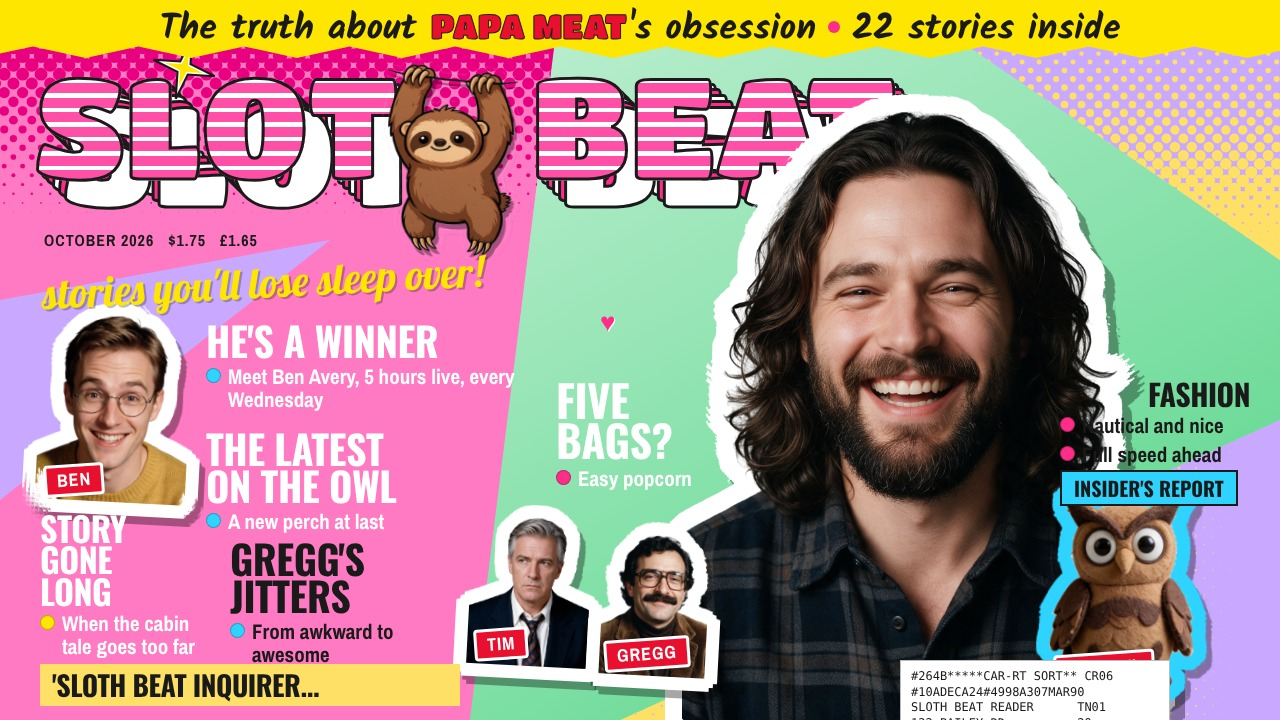
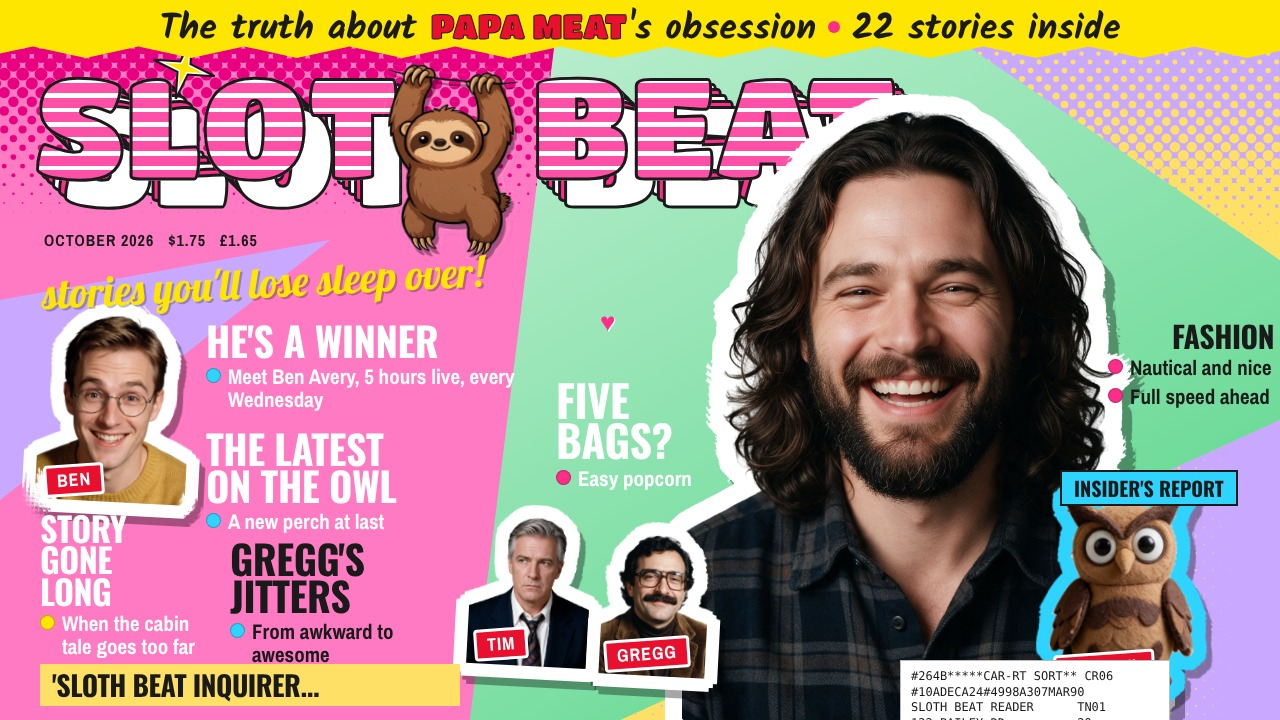
Sloth Beat v7: last coverline off the hair
Claude-Session: https://claude.ai/code/session_019p8SwDYgnY8vbcMXRQhZJi

Changed region(s): [[0.8125, 0.4278, 1.0, 0.6417]]

diff --git a/mockups/sloth_beat/01_papa_meat_v7.html b/mockups/sloth_beat/01_papa_meat_v7.html
@@ -5,5 +5,5 @@
 <div class="topstrip">The truth about <b>PAPA MEAT</b>'s obsession<i></i>22 stories inside</div>
 <div class="mast"><span class="layer l0">SLOT<span class="h">H</span> BEAT</span><span class="layer l1">SLOT<span class="h">H</span> BEAT</span><span class="layer l2">SLOT<span class="h">H</span> BEAT</span><span class="layer l3">SLOT<span class="h">H</span> BEAT</span><span class="layer l4">SLOT<span class="h">H</span> BEAT</span><span class="layer front">SLOT<span class="h">H</span> BEAT</span><svg class="glint" viewBox="0 0 60 60"><path d="M30 0 L35 25 L60 30 L35 35 L30 60 L25 35 L0 30 L25 25 Z" fill="#fff" stroke="#1a1a1a" stroke-width="2"/><path d="M30 12 L33 27 L48 30 L33 33 L30 48 L27 33 L12 30 L27 27 Z" fill="#ffe600"/></svg></div><img class="sloth" src="sloth_sticker.png">
 <div class="dateline">OCTOBER 2026 &nbsp; $1.75 &nbsp; &pound;1.65</div>
-<img class="mainphoto" src="photo_a.png" style="left:640px;top:110px;width:560px;height:610px;z-index:5"><div class="script" style="left:42px;top:262px;color:#ffe600;font-size:42px;transform:rotate(-3deg);z-index:8">stories you'll lose sleep over!</div><img class="sticker" src="photo_b.png" style="left:40px;top:290px;width:150px;height:212px;z-index:6;transform:rotate(3deg);filter:drop-shadow(5px 0px 0 #fff) drop-shadow(-5px 0px 0 #fff) drop-shadow(0px 5px 0 #fff) drop-shadow(0px -5px 0 #fff) drop-shadow(4px 4px 0 #fff) drop-shadow(-4px 4px 0 #fff) drop-shadow(4px -4px 0 #fff) drop-shadow(-4px -4px 0 #fff) drop-shadow(6px 8px 0 rgba(0,0,0,.35))"><div class="nametag" style="left:44px;top:464px;z-index:7">BEN</div><div class="cl" style="left:206px;top:322px;width:330px;z-index:8;text-align:left;"><div class="head" style="color:#fff;font-size:40px">HE'S A WINNER</div><div class="sub" style="color:#fff"><i style="background:#2fd3ff"></i>Meet Ben Avery, 5 hours live, every Wednesday</div></div><div class="cl" style="left:206px;top:430px;width:330px;z-index:8;text-align:left;"><div class="head" style="color:#fff;font-size:40px">THE LATEST<br>ON THE OWL</div><div class="sub" style="color:#fff"><i style="background:#2fd3ff"></i>A new perch at last</div></div><div class="cl" style="left:40px;top:512px;width:180px;z-index:8;text-align:left;"><div class="head" style="color:#fff;font-size:34px">STORY<br>GONE<br>LONG</div><div class="sub" style="color:#fff"><i style="background:#ffe600"></i>When the cabin tale goes too far</div></div><div class="cl" style="left:230px;top:540px;width:230px;z-index:8;text-align:left;"><div class="head" style="color:#1a1a1a;font-size:40px">GREGG'S<br>JITTERS</div><div class="sub" style="color:#1a1a1a"><i style="background:#2fd3ff"></i>From awkward to awesome</div></div><div class="cl" style="left:556px;top:380px;width:140px;z-index:8;text-align:left;"><div class="head" style="color:#fff;font-size:44px">FIVE<br>BAGS?</div><div class="sub" style="color:#fff"><i style="background:#ff2d8a"></i>Easy popcorn</div></div><div class="cl" style="left:40px;top:664px;width:420px;z-index:8;text-align:left;background:#ffe066;padding:8px 12px;"><div class="head" style="color:#1a1a1a;font-size:28px">'SLOTH BEAT INQUIRER...</div></div><img class="sticker" src="photo_c.png" style="left:470px;top:513px;width:120px;height:153px;z-index:6;transform:rotate(3deg);filter:drop-shadow(5px 0px 0 #fff) drop-shadow(-5px 0px 0 #fff) drop-shadow(0px 5px 0 #fff) drop-shadow(0px -5px 0 #fff) drop-shadow(4px 4px 0 #fff) drop-shadow(-4px 4px 0 #fff) drop-shadow(4px -4px 0 #fff) drop-shadow(-4px -4px 0 #fff) drop-shadow(6px 8px 0 rgba(0,0,0,.35))"><div class="nametag" style="left:474px;top:628px;z-index:7">TIM</div><img class="sticker" src="photo_d.png" style="left:600px;top:535px;width:110px;height:141px;z-index:6;transform:rotate(3deg);filter:drop-shadow(5px 0px 0 #fff) drop-shadow(-5px 0px 0 #fff) drop-shadow(0px 5px 0 #fff) drop-shadow(0px -5px 0 #fff) drop-shadow(4px 4px 0 #fff) drop-shadow(-4px 4px 0 #fff) drop-shadow(4px -4px 0 #fff) drop-shadow(-4px -4px 0 #fff) drop-shadow(6px 8px 0 rgba(0,0,0,.35))"><div class="nametag" style="left:604px;top:638px;z-index:7">GREGG</div><img class="sticker" src="photo_owl.png" style="left:1050px;top:490px;width:150px;height:200px;z-index:9;transform:rotate(3deg);filter:drop-shadow(5px 0px 0 #2fd3ff) drop-shadow(-5px 0px 0 #2fd3ff) drop-shadow(0px 5px 0 #2fd3ff) drop-shadow(0px -5px 0 #2fd3ff) drop-shadow(4px 4px 0 #2fd3ff) drop-shadow(-4px 4px 0 #2fd3ff) drop-shadow(4px -4px 0 #2fd3ff) drop-shadow(-4px -4px 0 #2fd3ff) drop-shadow(6px 8px 0 rgba(0,0,0,.35))"><div class="nametag" style="left:1054px;top:652px;z-index:10">THE OWL</div><div class="cl" style="left:1060px;top:380px;width:190px;z-index:9;text-align:right;"><div class="head" style="color:#1a1a1a;font-size:30px">FASHION</div><div class="sub" style="color:#1a1a1a"><i style="background:#ff2d8a"></i>Nautical and nice</div><div class="sub" style="color:#1a1a1a"><i style="background:#ff2d8a"></i>Full speed ahead</div></div><div class="tab" style="left:1060px;top:470px">insider's report</div><div class="mail" style="left:900px;top:660px">#264B*****CAR-RT SORT** CR06<br>#10ADECA24#4998A307MAR90<br>SLOTH BEAT READER &nbsp;&nbsp;&nbsp;&nbsp; TN01<br>132 BAILEY RD &nbsp;&nbsp;&nbsp;&nbsp;&nbsp;&nbsp;&nbsp;&nbsp; 29<br>ROCKY HILL &nbsp;&nbsp;&nbsp;&nbsp;&nbsp; CT 06067</div><div class="heartdot" style="left:600px;top:300px">&#9829;</div>
+<img class="mainphoto" src="photo_a.png" style="left:640px;top:110px;width:560px;height:610px;z-index:5"><div class="script" style="left:42px;top:262px;color:#ffe600;font-size:42px;transform:rotate(-3deg);z-index:8">stories you'll lose sleep over!</div><img class="sticker" src="photo_b.png" style="left:40px;top:290px;width:150px;height:212px;z-index:6;transform:rotate(3deg);filter:drop-shadow(5px 0px 0 #fff) drop-shadow(-5px 0px 0 #fff) drop-shadow(0px 5px 0 #fff) drop-shadow(0px -5px 0 #fff) drop-shadow(4px 4px 0 #fff) drop-shadow(-4px 4px 0 #fff) drop-shadow(4px -4px 0 #fff) drop-shadow(-4px -4px 0 #fff) drop-shadow(6px 8px 0 rgba(0,0,0,.35))"><div class="nametag" style="left:44px;top:464px;z-index:7">BEN</div><div class="cl" style="left:206px;top:322px;width:330px;z-index:8;text-align:left;"><div class="head" style="color:#fff;font-size:40px">HE'S A WINNER</div><div class="sub" style="color:#fff"><i style="background:#2fd3ff"></i>Meet Ben Avery, 5 hours live, every Wednesday</div></div><div class="cl" style="left:206px;top:430px;width:330px;z-index:8;text-align:left;"><div class="head" style="color:#fff;font-size:40px">THE LATEST<br>ON THE OWL</div><div class="sub" style="color:#fff"><i style="background:#2fd3ff"></i>A new perch at last</div></div><div class="cl" style="left:40px;top:512px;width:180px;z-index:8;text-align:left;"><div class="head" style="color:#fff;font-size:34px">STORY<br>GONE<br>LONG</div><div class="sub" style="color:#fff"><i style="background:#ffe600"></i>When the cabin tale goes too far</div></div><div class="cl" style="left:230px;top:540px;width:230px;z-index:8;text-align:left;"><div class="head" style="color:#1a1a1a;font-size:40px">GREGG'S<br>JITTERS</div><div class="sub" style="color:#1a1a1a"><i style="background:#2fd3ff"></i>From awkward to awesome</div></div><div class="cl" style="left:556px;top:380px;width:140px;z-index:8;text-align:left;"><div class="head" style="color:#fff;font-size:44px">FIVE<br>BAGS?</div><div class="sub" style="color:#fff"><i style="background:#ff2d8a"></i>Easy popcorn</div></div><div class="cl" style="left:40px;top:664px;width:420px;z-index:8;text-align:left;background:#ffe066;padding:8px 12px;"><div class="head" style="color:#1a1a1a;font-size:28px">'SLOTH BEAT INQUIRER...</div></div><img class="sticker" src="photo_c.png" style="left:470px;top:513px;width:120px;height:153px;z-index:6;transform:rotate(3deg);filter:drop-shadow(5px 0px 0 #fff) drop-shadow(-5px 0px 0 #fff) drop-shadow(0px 5px 0 #fff) drop-shadow(0px -5px 0 #fff) drop-shadow(4px 4px 0 #fff) drop-shadow(-4px 4px 0 #fff) drop-shadow(4px -4px 0 #fff) drop-shadow(-4px -4px 0 #fff) drop-shadow(6px 8px 0 rgba(0,0,0,.35))"><div class="nametag" style="left:474px;top:628px;z-index:7">TIM</div><img class="sticker" src="photo_d.png" style="left:600px;top:535px;width:110px;height:141px;z-index:6;transform:rotate(3deg);filter:drop-shadow(5px 0px 0 #fff) drop-shadow(-5px 0px 0 #fff) drop-shadow(0px 5px 0 #fff) drop-shadow(0px -5px 0 #fff) drop-shadow(4px 4px 0 #fff) drop-shadow(-4px 4px 0 #fff) drop-shadow(4px -4px 0 #fff) drop-shadow(-4px -4px 0 #fff) drop-shadow(6px 8px 0 rgba(0,0,0,.35))"><div class="nametag" style="left:604px;top:638px;z-index:7">GREGG</div><img class="sticker" src="photo_owl.png" style="left:1050px;top:490px;width:150px;height:200px;z-index:9;transform:rotate(3deg);filter:drop-shadow(5px 0px 0 #2fd3ff) drop-shadow(-5px 0px 0 #2fd3ff) drop-shadow(0px 5px 0 #2fd3ff) drop-shadow(0px -5px 0 #2fd3ff) drop-shadow(4px 4px 0 #2fd3ff) drop-shadow(-4px 4px 0 #2fd3ff) drop-shadow(4px -4px 0 #2fd3ff) drop-shadow(-4px -4px 0 #2fd3ff) drop-shadow(6px 8px 0 rgba(0,0,0,.35))"><div class="nametag" style="left:1054px;top:652px;z-index:10">THE OWL</div><div class="cl" style="left:1108px;top:322px;width:166px;z-index:9;text-align:right;"><div class="head" style="color:#1a1a1a;font-size:30px">FASHION</div><div class="sub" style="color:#1a1a1a"><i style="background:#ff2d8a"></i>Nautical and nice</div><div class="sub" style="color:#1a1a1a"><i style="background:#ff2d8a"></i>Full speed ahead</div></div><div class="tab" style="left:1060px;top:470px">insider's report</div><div class="mail" style="left:900px;top:660px">#264B*****CAR-RT SORT** CR06<br>#10ADECA24#4998A307MAR90<br>SLOTH BEAT READER &nbsp;&nbsp;&nbsp;&nbsp; TN01<br>132 BAILEY RD &nbsp;&nbsp;&nbsp;&nbsp;&nbsp;&nbsp;&nbsp;&nbsp; 29<br>ROCKY HILL &nbsp;&nbsp;&nbsp;&nbsp;&nbsp; CT 06067</div><div class="heartdot" style="left:600px;top:300px">&#9829;</div>
 </div></body></html>
